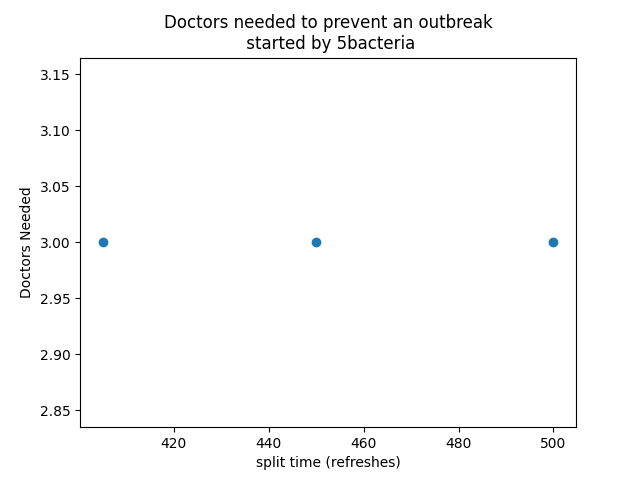
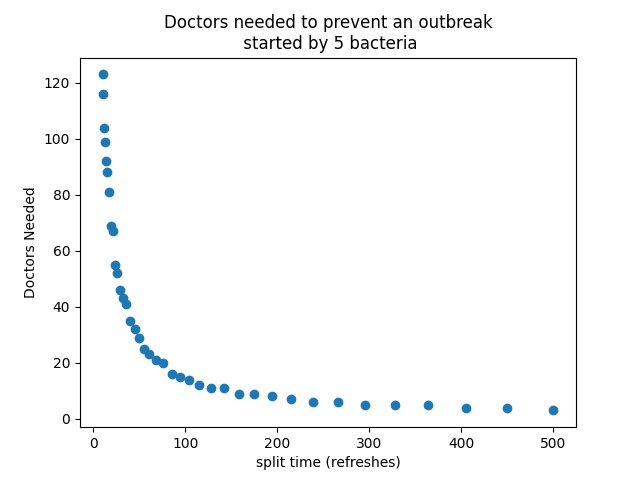
Data run, display window open on close on 'd' key press. data.png of large test run.

diff --git a/main.py b/main.py
@@ -1,7 +1,7 @@
 import pygame
 from pygame.locals import * 
 import random
-import time
+
 
 from virus import VirusNode 
 from doctor import Doctor
@@ -23,6 +23,7 @@ doctors = pygame.sprite.Group()
 
 round_over = False
 done = False
+display = False
 
 doc_num = 1 
 bac_num = 5 
@@ -31,18 +32,23 @@ split_time = 500
 
 success = 0
 tests = 0
+#variable used to calculate how many times bacteria can grow to during tests
 split_times = 10
-case_samples = 1
+case_samples = 10
 test_data = []
 
 def process_events(): 
-  global done
+  global display, done
   for event in pygame.event.get(): 
     if event.type == pygame.QUIT:
       done = True
+    if event.type == pygame.KEYDOWN:
+      if event.key == pygame.K_d:  
+        display = not display
+        print("Display toggled: "+ str(display))
 
 def init():
-  global round_over 
+  global round_over
   bacteria.empty() 
   doctors.empty() 
   round_over = False
@@ -60,7 +66,8 @@ def timeout():
 
 def end_of_round():
   global tests,success,doc_num,bac_num,split_time,done
-  timeout()
+  if display:
+    timeout()
   tests +=1
   if tests >=case_samples:
     test_data.append([doc_num,bac_num,split_time,tests,success/tests*100])
@@ -73,7 +80,7 @@ def end_of_round():
       split_time = round(split_time*0.9)
       print("SPLIT TIME CURRENTLY: "+ str(split_time))
       #Below is the limiting condition on when tests complete, basically the split time for bacteria is too long in response to better doctors (equilibrium reached)
-      if split_time <400:
+      if split_time <10:
         print("all tests done!")
         done = True
     tests = 0
@@ -81,6 +88,8 @@ def end_of_round():
   init()
 
 def process_data():
+  print(test_data)
+  print("PROCESSING DATA...data.png")
   x = []
   y = []
   for row in test_data:
@@ -93,6 +102,7 @@ def process_data():
   plt.xlabel('split time (refreshes)')
   plt.ylabel('Doctors Needed')
   fig.savefig('data.png')
+ 
 
 def main():
   global success,round_over
@@ -102,10 +112,11 @@ def main():
   # doctors.add(Doctor((random.randint(50,width-50),random.randint(50,height-50))))
 
   while not done:
-    clock.tick(60) 
+    if display:
+      clock.tick(60) 
     process_events()
     if len(bacteria) > bac_num*split_times:
-    #if len(bacteria) > 8:
+    #use for testing if len(bacteria) > 8:
       text = font.render("You were overrun", True, (255, 0,0))
       text_rect =text.get_rect()
       round_over = True
@@ -114,19 +125,20 @@ def main():
       text_rect = text.get_rect()
       success +=1
       round_over = True
-      #print(round_over)
+        #print(round_over)
     else:
       doctors.update()
       bacteria.update()
       pygame.sprite.groupcollide(doctors, bacteria, False,True)
       text = font.render("Bacteria Count: {}".format(len(bacteria)), True, (255, 0, 0))
       text_rect = text.get_rect()
-
-    screen.fill(color) 
-    doctors.draw(screen) 
-    bacteria.draw(screen)
-    screen.blit(text,text_rect) 
-    pygame.display.flip()
+      
+    if display:
+      screen.fill(color) 
+      doctors.draw(screen) 
+      bacteria.draw(screen)
+      screen.blit(text,text_rect) 
+      pygame.display.flip()
     if round_over == True:
       print("end of round")
       end_of_round()
